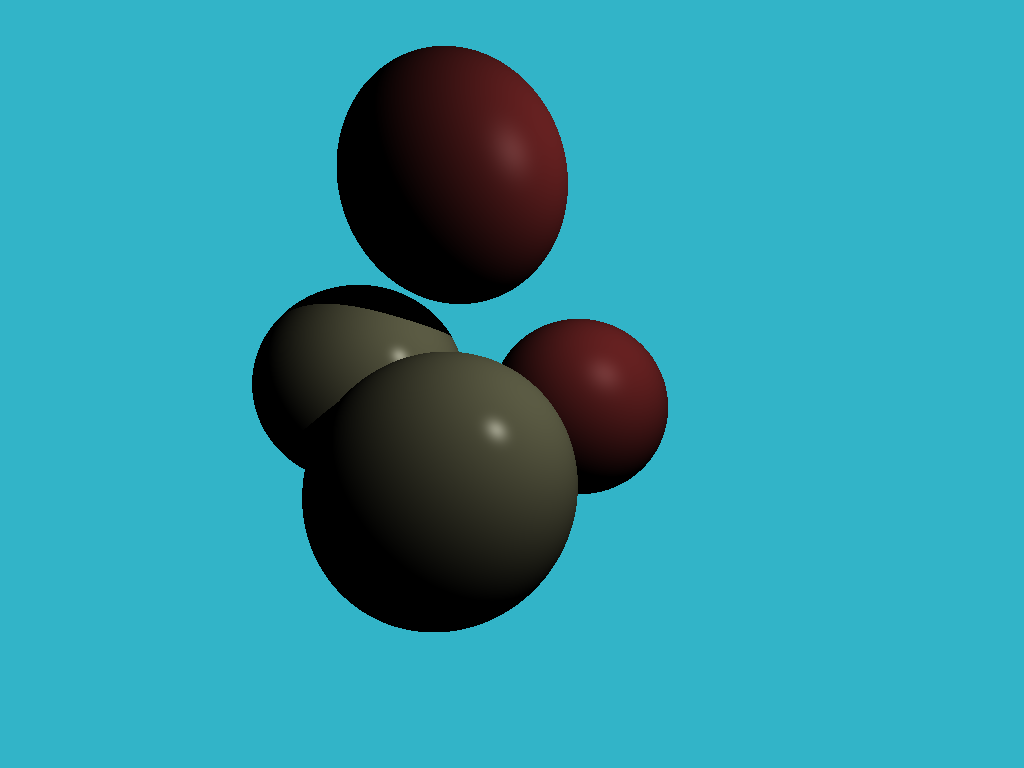
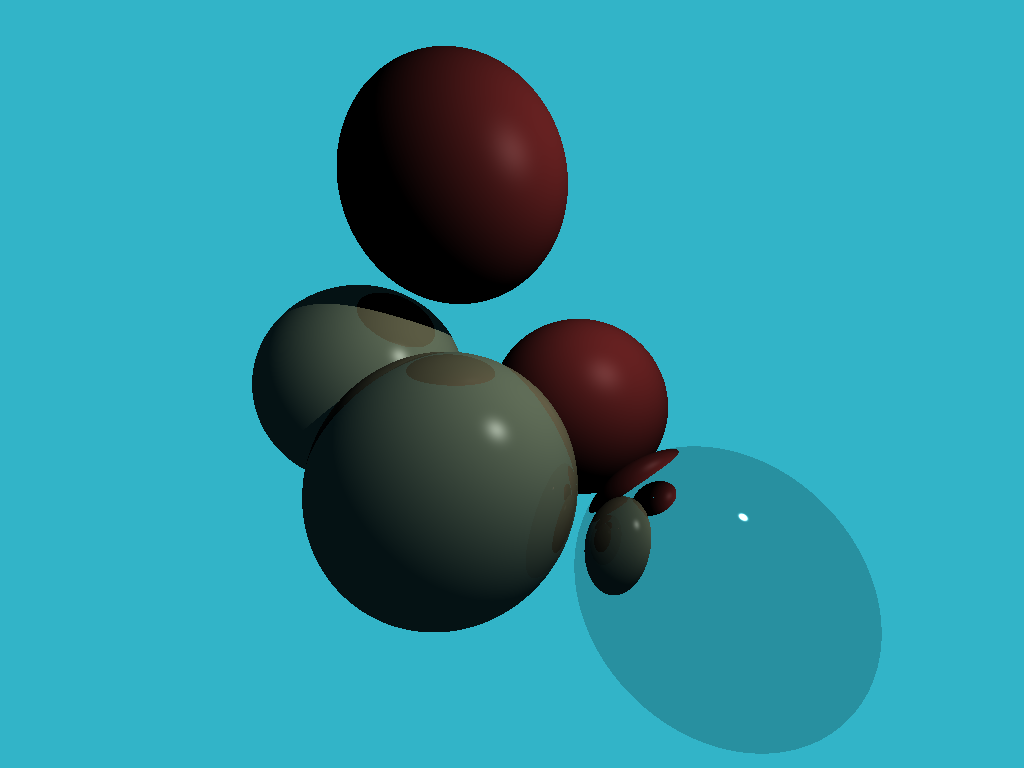
Implement reflection calculations

Changed region(s): [[0.5625, 0.5625, 0.875, 1.0]]

diff --git a/src/raytracer.rs b/src/raytracer.rs
@@ -57,10 +57,21 @@ pub fn scene_intersect(
     return closest_intersection;
 }
 
-fn cast_ray(origin: &Vec3, direction: &Vec3, spheres: &[Sphere], lights: &[Light]) -> Rgb<u8> {
+fn cast_ray(
+    origin: &Vec3,
+    direction: &Vec3,
+    spheres: &[Sphere],
+    lights: &[Light],
+    recursive_depth: u8,
+) -> Rgb<u8> {
     let hit: Vec3;
     let normal: Vec3;
     let material: Material;
+    let background_color = Rgb([50, 180, 200]);
+
+    if recursive_depth > 4 {
+        return background_color;
+    }
 
     match scene_intersect(origin, direction, spheres) {
         Some(intersection) => {
@@ -68,19 +79,36 @@ fn cast_ray(origin: &Vec3, direction: &Vec3, spheres: &[Sphere], lights: &[Light
             normal = intersection.normal;
             material = intersection.material;
         }
-        None => return Rgb([50, 180, 200]),
+        None => return background_color,
     }
-    return calculate_lighting_color(&material, lights, &hit, &normal, &direction, spheres);
+
+    return calculate_color(
+        &material,
+        lights,
+        &hit,
+        &normal,
+        &direction,
+        spheres,
+        recursive_depth,
+    );
 }
 
-fn calculate_lighting_color(
+fn calculate_color(
     material: &Material,
     lights: &[Light],
     hit: &Vec3,
     normal: &Vec3,
     direction: &Vec3,
     spheres: &[Sphere],
+    recursive_depth: u8,
 ) -> Rgb<u8> {
+    let reflection_color =
+        calculate_reflection_color(direction, normal, hit, spheres, lights, recursive_depth);
+    let reflection_vector = Vec3::new(
+        reflection_color.0[0] as f32 / 255 as f32,
+        reflection_color.0[1] as f32 / 255 as f32,
+        reflection_color.0[2] as f32 / 255 as f32,
+    );
     let mut diffuse_light_intensity = 0f32;
     let mut specular_light_intensity = 0f32;
     let mut calculated_color = Vec3::new(
@@ -109,20 +137,45 @@ fn calculate_lighting_color(
         specular_light_intensity += f32::powf(
             f32::max(
                 0f32,
-                -calculate_reflection(&(-light_direction), &normal).dot(*direction),
+                -calculate_reflection_direction(&(-light_direction), &normal).dot(*direction),
             ),
             material.specular_exponent * light.intensity,
         )
     }
 
     calculated_color = calculated_color * diffuse_light_intensity * material.albedo[0]
-        + Vec3::ONE * specular_light_intensity * material.albedo[1];
+        + Vec3::ONE * specular_light_intensity * material.albedo[1]
+        + reflection_vector * material.albedo[2];
 
     return Rgb([
         u8::clamp((calculated_color[0] * 255f32) as u8, 0, 255),
         u8::clamp((calculated_color[1] * 255f32) as u8, 0, 255),
         u8::clamp((calculated_color[2] * 255f32) as u8, 0, 255),
     ]);
+}
+
+fn calculate_reflection_color(
+    direction: &Vec3,
+    normal: &Vec3,
+    hit: &Vec3,
+    spheres: &[Sphere],
+    lights: &[Light],
+    recursive_depth: u8,
+) -> Rgb<u8> {
+    let reflection_direction = calculate_reflection_direction(direction, normal);
+    let reflection_origin: Vec3;
+    if reflection_direction.dot(*normal) < 0f32 {
+        reflection_origin = hit - 0.0001f32;
+    } else {
+        reflection_origin = hit + 0.0001f32;
+    }
+    return cast_ray(
+        &reflection_origin,
+        &reflection_direction,
+        spheres,
+        lights,
+        recursive_depth + 1,
+    );
 }
 
 pub fn render(spheres: &Vec<Sphere>, lights: &[Light]) {
@@ -140,12 +193,12 @@ pub fn render(spheres: &Vec<Sphere>, lights: &[Light]) {
         let y_pos = -(2f32 * (y as f32 + 0.5) / IMAGE_HEIGHT as f32 - 1f32) * f32::tan(fov / 2f32);
 
         let direction = Vec3::normalize(Vec3::new(x_pos, y_pos, -1f32));
-        *pixel = cast_ray(&Vec3::ZERO, &direction, spheres, lights);
+        *pixel = cast_ray(&Vec3::ZERO, &direction, spheres, lights, 0);
     }
 
     frame_buffer.save("out.png").unwrap();
 }
 
-fn calculate_reflection(incident: &Vec3, normal: &Vec3) -> Vec3 {
+fn calculate_reflection_direction(incident: &Vec3, normal: &Vec3) -> Vec3 {
     return incident - normal * 2f32 * incident.dot(*normal);
 }

diff --git a/src/main.rs b/src/main.rs
@@ -1,7 +1,7 @@
 mod raytracer;
 mod structures;
 
-use glam::{Vec2, Vec3};
+use glam::Vec3;
 use image::Rgb;
 use structures::{Light, Material, Sphere};
 
@@ -9,12 +9,38 @@ fn main() {
     println!("Hello, world!");
     let mut spheres = Vec::new();
     let mut lights = Vec::new();
-    let ivory = Material::new(Rgb([102, 102, 76]), Vec2 { x: 0.6, y: 0.3 }, 50f32);
-    let red = Material::new(Rgb([76, 25, 25]), Vec2 { x: 0.9, y: 0.1 }, 10f32);
+    let ivory = Material::new(
+        Rgb([102, 102, 76]),
+        Vec3 {
+            x: 0.6,
+            y: 0.3,
+            z: 0.1,
+        },
+        50f32,
+    );
+    let red = Material::new(
+        Rgb([76, 25, 25]),
+        Vec3 {
+            x: 0.9,
+            y: 0.1,
+            z: 0.0,
+        },
+        10f32,
+    );
+    let mirror = Material::new(
+        Rgb([255, 255, 255]),
+        Vec3 {
+            x: 0.0,
+            y: 10.0,
+            z: 0.8,
+        },
+        1425f32,
+    );
     spheres.push(Sphere::new(Vec3::new(-3f32, 0f32, -8f32), 2f32, ivory));
     spheres.push(Sphere::new(Vec3::new(-1f32, -1.5f32, -6f32), 2f32, ivory));
     spheres.push(Sphere::new(Vec3::new(1.5f32, -0.5f32, -9f32), 2f32, red));
     spheres.push(Sphere::new(Vec3::new(-1f32, 3.5f32, -7f32), 2f32, red));
+    spheres.push(Sphere::new(Vec3::new(3f32, -3f32, -6f32), 2f32, mirror));
 
     lights.push(Light::new(Vec3::new(5f32, 5f32, -2f32), 1.5));
     raytracer::render(&spheres, &lights);

diff --git a/src/structures.rs b/src/structures.rs
@@ -1,4 +1,4 @@
-use glam::{Vec2, Vec3};
+use glam::Vec3;
 use image::Rgb;
 
 // TODO: Create a Scene struct which will hold meshes and lights.
@@ -23,12 +23,12 @@ impl Light {
 #[derive(Debug, Clone, Copy)]
 pub struct Material {
     pub diffuse_color: Rgb<u8>,
-    pub albedo: Vec2,
+    pub albedo: Vec3,
     pub specular_exponent: f32,
 }
 
 impl Material {
-    pub fn new(color: Rgb<u8>, albedo: Vec2, specular_exponent: f32) -> Material {
+    pub fn new(color: Rgb<u8>, albedo: Vec3, specular_exponent: f32) -> Material {
         Material {
             diffuse_color: color,
             albedo,

diff --git a/README.md b/README.md
@@ -3,12 +3,12 @@ Ferox is a ray-tracing renderer written in Rust.
 
 Currently, it is capable of detecting ray intersections with simple spheres and displaying those calculations in PNG form.
 
-This project is made possible with the help of assets like scratchapixel.com and ssloy's tiny ray tracer (https://github.com/ssloy/tinyraytracer).
+This project is made possible with the help of assets like https://www.scratchapixel.com and ssloy's tiny ray tracer (https://github.com/ssloy/tinyraytracer).
 
 # Usage
 The crate can be installed using `cargo install ferox`. 
 
-In its current state, running `ferox` will just render and output the default scene as specified in `main.rs` in whatever directory it is called from.
+In its current state, running `ferox` will just render and output the default scene as specified in `main.rs` in whatever directory ferox is called from.
 
 To experiment with the engine, it is recommended to download the source code and adjust the scene parameters manually.
 
@@ -21,7 +21,7 @@ I am planning on adding support for JSON-based scene loading and overrideable ou
 - [x] Lighting
 - [x] Specularity
 - [x] Shadows
-- [ ] Reflections
+- [x] Reflections
 - [ ] Refraction
 - [ ] Additional object types and meshes
 - [ ] Loadable scene configurations
